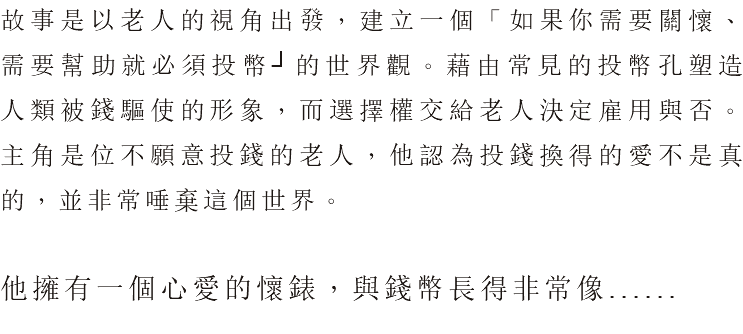
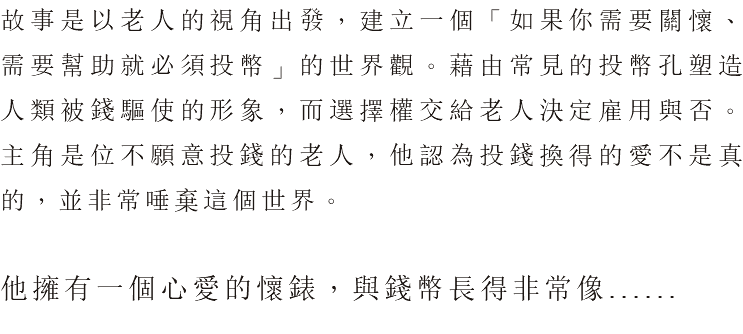
Final

Changed region(s): [[0.1238, 0.1497, 0.8977, 0.2395]]

diff --git a/css/animation.css b/css/animation.css
@@ -1,1 +1,1 @@
-.version.animation{color:#000010;background-color:#68A0E8;}#muse_css_mq{background-color:#FFFFFF;}#page{z-index:1;width:1280px;min-height:500px;background-image:none;border-width:0px;border-color:#000000;background-color:transparent;margin-left:auto;margin-right:auto;}#page_position_content{padding-bottom:62px;width:0.01px;}#pu1153{z-index:37;width:0.01px;padding-bottom:127px;margin-left:-100px;}#u1153{z-index:37;height:127px;box-shadow:0px 38px 25px rgba(89,69,64,0.25);background-color:#6B625E;opacity:0.5;-ms-filter:"progid:DXImageTransform.Microsoft.Alpha(Opacity=50)";filter:alpha(opacity=50);position:fixed;top:0px;}#u1153-bw{z-index:37;}#u1154{z-index:38;width:48px;background-color:transparent;position:fixed;top:40px;left:50%;margin-left:-640px;}#pu228-7{z-index:3;width:0.01px;margin-left:-100px;margin-top:172px;}#u228-7{z-index:3;display:block;vertical-align:top;position:relative;margin-right:-10000px;margin-top:1316px;left:642px;}#slideshowu639{z-index:10;width:0.01px;height:962px;position:relative;margin-right:-10000px;}#u649{position:absolute;width:1480px;height:962px;background-color:transparent;}#u649popup{z-index:11;}#u652{z-index:12;width:1480px;height:962px;border-width:0px;border-color:transparent;background-color:transparent;margin-right:-10000px;position:relative;}#u753{z-index:14;width:1480px;height:962px;border-width:0px;border-color:transparent;background-color:transparent;margin-right:-10000px;position:relative;}#u791{z-index:16;width:1480px;height:962px;border-width:0px;border-color:transparent;background-color:transparent;margin-right:-10000px;position:relative;}#u811{z-index:18;width:1480px;height:962px;border-width:0px;border-color:transparent;background-color:transparent;margin-right:-10000px;position:relative;}#u659-4{position:absolute;width:10px;min-height:20px;border-width:0px;border-color:transparent;background-color:transparent;padding:10px;text-align:center;line-height:20px;font-family:Georgia, Palatino, Palatino Linotype, Times, Times New Roman, serif;top:922px;}#u659-4popup{z-index:20;}#u659{color:#999999;}#u656-4{position:absolute;width:10px;min-height:20px;border-width:0px;border-color:transparent;background-color:transparent;padding:10px;text-align:center;line-height:20px;color:#999999;font-family:Georgia, Palatino, Palatino Linotype, Times, Times New Roman, serif;top:922px;left:1450px;}#u656-4popup{z-index:24;}.SSFirstButton,.SSPreviousButton,.SSNextButton,.SSLastButton,.SSSlideLink,.SSCloseButton{cursor:pointer;}.SSSlideLoading{background:url("../images/loading.gif?crc=3815509949") no-repeat center center;}#u831-9{z-index:28;display:block;vertical-align:top;margin-left:542px;margin-top:128px;position:relative;}#u151{z-index:2;width:173px;height:149px;opacity:1;-ms-filter:"progid:DXImageTransform.Microsoft.Alpha(Opacity=100)";filter:alpha(opacity=100);margin-left:1178px;margin-top:128px;position:relative;background:transparent url("../images/7002.png?crc=326660457") no-repeat center center;background-size:cover;}.hidpi #u151{background-image:url("../images/7002_2x.png?crc=315358198");}.css_verticalspacer .verticalspacer{height:calc(100vh - 2875px);}.html{background-color:#332F2D;background:-webkit-gradient(linear, center top, center bottom, from(#332F2D),color-stop(100%, #968B81));background:-webkit-linear-gradient(top,#332F2D ,#968B81 100%);background:linear-gradient(to bottom,#332F2D ,#968B81 100%);filter:progid:DXImageTransform.Microsoft.gradient(startColorstr=#FF332F2D, endColorstr=#FF968B81, GradientType=0);-ms-filter:"progid:DXImageTransform.Microsoft.gradient(startColorstr='#FF332F2D', endColorstr='#FF968B81', GradientType=0)";}body{position:relative;min-width:1280px;}
+.version.animation{color:#00001F;background-color:#F38969;}#muse_css_mq{background-color:#FFFFFF;}#page{z-index:1;width:1280px;min-height:499.6399999999999px;background-image:none;border-width:0px;border-color:#000000;background-color:transparent;padding-bottom:0px;margin-left:auto;margin-right:auto;}#page_position_content{padding-bottom:62px;width:0.01px;}#pu1153{z-index:37;width:0.01px;padding-bottom:127px;margin-left:-100px;}#u1153{z-index:37;height:127px;box-shadow:0px 38px 25px rgba(89,69,64,0.25);background-color:#6B625E;opacity:0.5;-ms-filter:"progid:DXImageTransform.Microsoft.Alpha(Opacity=50)";filter:alpha(opacity=50);position:fixed;top:0px;}#u1153-bw{z-index:37;}#u1154{z-index:38;width:48px;background-color:transparent;position:fixed;top:40px;left:50%;margin-left:-640px;}#pu228-7{z-index:3;width:0.01px;margin-left:-100px;margin-top:173px;}#u228-7{z-index:3;display:block;vertical-align:top;position:relative;margin-right:-10000px;margin-top:1277px;left:637px;}#slideshowu639{z-index:10;width:0.01px;height:962px;position:relative;margin-right:-10000px;}#u649{position:absolute;width:1480px;height:962px;background-color:transparent;}#u649popup{z-index:11;}#u652{z-index:12;width:1480px;height:962px;border-width:0px;border-color:transparent;background-color:transparent;margin-right:-10000px;position:relative;}#u753{z-index:14;width:1480px;height:962px;border-width:0px;border-color:transparent;background-color:transparent;margin-right:-10000px;position:relative;}#u791{z-index:16;width:1480px;height:962px;border-width:0px;border-color:transparent;background-color:transparent;margin-right:-10000px;position:relative;}#u811{z-index:18;width:1480px;height:962px;border-width:0px;border-color:transparent;background-color:transparent;margin-right:-10000px;position:relative;}#u659-4{position:absolute;width:10px;min-height:20px;border-width:0px;border-color:transparent;background-color:transparent;padding:10px;text-align:center;line-height:20px;font-family:Georgia, Palatino, Palatino Linotype, Times, Times New Roman, serif;top:920px;}#u659-4popup{z-index:20;}#u659{color:#999999;}#u656-4{position:absolute;width:10px;min-height:20px;border-width:0px;border-color:transparent;background-color:transparent;padding:10px;color:#999999;text-align:center;line-height:20px;font-family:Georgia, Palatino, Palatino Linotype, Times, Times New Roman, serif;top:920px;left:1450px;}#u656-4popup{z-index:24;}.SSFirstButton,.SSPreviousButton,.SSNextButton,.SSLastButton,.SSSlideLink,.SSCloseButton{cursor:pointer;}.SSSlideLoading{background:url("../images/loading.gif?crc=3815509949") no-repeat center center;}#u831-9{z-index:28;display:block;vertical-align:top;margin-left:537px;margin-top:128px;position:relative;}#u151{z-index:2;width:126px;height:108px;opacity:1;-ms-filter:"progid:DXImageTransform.Microsoft.Alpha(Opacity=100)";filter:alpha(opacity=100);margin-left:1189px;margin-top:166px;position:relative;background:transparent url("../images/7002-u151-fr.png?crc=3774197193") no-repeat center center;background-size:cover;}.hidpi #u151{background-image:url("../images/7002-u151-fr_2x.png?crc=3932895861");}.css_verticalspacer .verticalspacer{height:calc(100vh - 2835px);}.html{background-color:#332F2D;background:-webkit-gradient(linear, center top, center bottom, from(#332F2D),color-stop(100%, #968B81));background:-webkit-linear-gradient(top,#332F2D ,#968B81 100%);background:linear-gradient(to bottom,#332F2D ,#968B81 100%);filter:progid:DXImageTransform.Microsoft.gradient(startColorstr=#FF332F2D, endColorstr=#FF968B81, GradientType=0);-ms-filter:"progid:DXImageTransform.Microsoft.gradient(startColorstr='#FF332F2D', endColorstr='#FF968B81', GradientType=0)";}body{position:relative;min-width:1280px;}

diff --git a/css/film-play.css b/css/film-play.css
@@ -1,1 +1,1 @@
-.version.film_play{color:#0000F5;background-color:#5DE3B3;}#muse_css_mq{background-color:#FFFFFF;}#page{z-index:1;width:1280px;min-height:500px;background-image:none;border-width:0px;border-color:#000000;background-color:transparent;margin-left:auto;margin-right:auto;}#page_position_content{padding-bottom:62px;width:0.01px;}#pu1167{z-index:42;width:0.01px;padding-bottom:127px;margin-left:-100px;}#u1167{z-index:42;height:127px;box-shadow:0px 38px 25px rgba(89,69,64,0.25);background-color:#6B625E;opacity:0.5;-ms-filter:"progid:DXImageTransform.Microsoft.Alpha(Opacity=50)";filter:alpha(opacity=50);position:fixed;top:0px;}#u1167-bw{z-index:42;}#u1906{z-index:43;width:48px;background-color:transparent;position:fixed;top:40px;left:50%;margin-left:-640px;}#pfilm{z-index:41;width:0.01px;margin-top:123px;}#film{position:relative;margin-right:-10000px;width:22px;}#u1930{z-index:40;width:1178px;height:743px;border-width:0px;border-color:transparent;background-color:transparent;position:relative;margin-right:-10000px;left:48px;}#u839{z-index:2;width:761px;background-color:transparent;margin-left:465px;margin-top:452px;position:relative;}#u891-12{z-index:8;display:block;vertical-align:top;margin-left:459px;margin-top:35px;position:relative;}#u843{z-index:6;width:766px;background-color:transparent;margin-left:460px;margin-top:35px;position:relative;}#u894-10{z-index:30;display:block;vertical-align:top;margin-left:459px;margin-top:35px;position:relative;}#u841{z-index:4;width:766px;background-color:transparent;margin-left:460px;margin-top:35px;position:relative;}#u897-10{z-index:20;display:block;vertical-align:top;margin-left:459px;margin-top:35px;position:relative;}.css_verticalspacer .verticalspacer{height:calc(100vh - 3694px);}.html{background-color:#332C2C;background:-webkit-gradient(linear, center top, center bottom, from(#332C2C),color-stop(100%, #998675));background:-webkit-linear-gradient(top,#332C2C ,#998675 100%);background:linear-gradient(to bottom,#332C2C ,#998675 100%);filter:progid:DXImageTransform.Microsoft.gradient(startColorstr=#FF332C2C, endColorstr=#FF998675, GradientType=0);-ms-filter:"progid:DXImageTransform.Microsoft.gradient(startColorstr='#FF332C2C', endColorstr='#FF998675', GradientType=0)";}body{position:relative;min-width:1280px;}
+.version.film_play{color:#0000E5;background-color:#1A55B3;}#muse_css_mq{background-color:#FFFFFF;}#page{z-index:1;width:1280px;min-height:500px;background-image:none;border-width:0px;border-color:#000000;background-color:transparent;margin-left:auto;margin-right:auto;}#page_position_content{padding-bottom:62px;width:0.01px;}#pu1167{z-index:42;width:0.01px;padding-bottom:127px;margin-left:-100px;}#u1167{z-index:42;height:127px;box-shadow:0px 38px 25px rgba(89,69,64,0.25);background-color:#6B625E;opacity:0.5;-ms-filter:"progid:DXImageTransform.Microsoft.Alpha(Opacity=50)";filter:alpha(opacity=50);position:fixed;top:0px;}#u1167-bw{z-index:42;}#u1906{z-index:43;width:48px;background-color:transparent;position:fixed;top:40px;left:50%;margin-left:-640px;}#pfilm{z-index:41;width:0.01px;margin-top:123px;}#film{position:relative;margin-right:-10000px;width:22px;}#u1930{z-index:40;width:1178px;height:743px;border-width:0px;border-color:transparent;background-color:transparent;position:relative;margin-right:-10000px;left:48px;}#u839{z-index:2;width:761px;background-color:transparent;margin-left:465px;margin-top:452px;position:relative;}#u891-12{z-index:8;display:block;vertical-align:top;margin-left:464px;margin-top:32px;position:relative;}#u843{z-index:6;width:761px;background-color:transparent;margin-left:465px;margin-top:38px;position:relative;}#u894-10{z-index:30;display:block;vertical-align:top;margin-left:464px;margin-top:38px;position:relative;}#u841{z-index:4;width:761px;background-color:transparent;margin-left:465px;margin-top:37px;position:relative;}#u897-10{z-index:20;display:block;vertical-align:top;margin-left:464px;margin-top:41px;position:relative;}.css_verticalspacer .verticalspacer{height:calc(100vh - 3661px);}.html{background-color:#332C2C;background:-webkit-gradient(linear, center top, center bottom, from(#332C2C),color-stop(100%, #998675));background:-webkit-linear-gradient(top,#332C2C ,#998675 100%);background:linear-gradient(to bottom,#332C2C ,#998675 100%);filter:progid:DXImageTransform.Microsoft.gradient(startColorstr=#FF332C2C, endColorstr=#FF998675, GradientType=0);-ms-filter:"progid:DXImageTransform.Microsoft.gradient(startColorstr='#FF332C2C', endColorstr='#FF998675', GradientType=0)";}body{position:relative;min-width:1280px;}

diff --git a/css/design.css b/css/design.css
@@ -1,1 +1,1 @@
-.version.design{color:#000002;background-color:#04A456;}#muse_css_mq{background-color:#FFFFFF;}#page{z-index:1;width:1280px;min-height:500px;background-image:none;border-width:0px;border-color:#000000;background-color:transparent;margin-left:auto;margin-right:auto;}#page_position_content{padding-bottom:62px;width:0.01px;}#pu1150{z-index:55;width:0.01px;padding-bottom:127px;margin-left:-100px;}#u1150{z-index:55;height:127px;box-shadow:0px 38px 25px rgba(89,69,64,0.25);background-color:#EFECE6;opacity:0.5;-ms-filter:"progid:DXImageTransform.Microsoft.Alpha(Opacity=50)";filter:alpha(opacity=50);position:fixed;top:0px;}#u1150-bw{z-index:55;}#u1116{z-index:56;width:48px;background-color:transparent;position:fixed;top:41px;left:100px;}#pu234{z-index:35;width:0.01px;margin-left:311px;margin-top:118px;}#u234{z-index:35;width:659px;box-shadow:6px 6px 8px rgba(112,53,66,0.5);background-color:transparent;position:relative;margin-right:-10000px;}#poster{position:relative;margin-right:-10000px;width:22px;}#pu231-33{z-index:2;width:0.01px;margin-left:332px;margin-top:96px;}#u231-33{z-index:2;display:block;vertical-align:top;position:relative;margin-right:-10000px;}#u264-4{z-index:37;display:block;vertical-align:top;position:relative;margin-right:-10000px;margin-top:340px;left:-1px;}#u273-14{z-index:41;display:block;vertical-align:top;margin-left:331px;margin-top:22px;position:relative;}.css_verticalspacer .verticalspacer{height:calc(100vh - 2844px);}.html{background-color:#CEB7C0;background:-webkit-gradient(linear, center top, center bottom, from(#CEB7C0),color-stop(100%, #825165));background:-webkit-linear-gradient(top,#CEB7C0 ,#825165 100%);background:linear-gradient(to bottom,#CEB7C0 ,#825165 100%);filter:progid:DXImageTransform.Microsoft.gradient(startColorstr=#FFCEB7C0, endColorstr=#FF825165, GradientType=0);-ms-filter:"progid:DXImageTransform.Microsoft.gradient(startColorstr='#FFCEB7C0', endColorstr='#FF825165', GradientType=0)";}body{position:relative;min-width:1280px;}
+.version.design{color:#00000D;background-color:#959BA7;}#muse_css_mq{background-color:#FFFFFF;}#page{z-index:1;width:1280px;min-height:500px;background-image:none;border-width:0px;border-color:#000000;background-color:transparent;margin-left:auto;margin-right:auto;}#page_position_content{padding-bottom:62px;width:0.01px;}#pu1150{z-index:55;width:0.01px;padding-bottom:127px;margin-left:-100px;}#u1150{z-index:55;height:127px;box-shadow:0px 38px 25px rgba(89,69,64,0.25);background-color:#EFECE6;opacity:0.5;-ms-filter:"progid:DXImageTransform.Microsoft.Alpha(Opacity=50)";filter:alpha(opacity=50);position:fixed;top:0px;}#u1150-bw{z-index:55;}#u1116{z-index:56;width:48px;background-color:transparent;position:fixed;top:41px;left:100px;}#pu234{z-index:35;width:0.01px;margin-left:310px;margin-top:123px;}#u234{z-index:35;width:659px;box-shadow:6px 6px 8px rgba(112,53,66,0.5);background-color:transparent;position:relative;margin-right:-10000px;}#poster{position:relative;margin-right:-10000px;width:22px;}#pu231-33{z-index:2;width:0.01px;margin-left:332px;margin-top:91px;}#u231-33{z-index:2;display:block;vertical-align:top;position:relative;margin-right:-10000px;}#u264-4{z-index:37;display:block;vertical-align:top;position:relative;margin-right:-10000px;margin-top:340px;left:-1px;}#u273-14{z-index:41;display:block;vertical-align:top;margin-left:331px;margin-top:22px;position:relative;}.css_verticalspacer .verticalspacer{height:calc(100vh - 2844px);}.html{background-color:#CEB7C0;background:-webkit-gradient(linear, center top, center bottom, from(#CEB7C0),color-stop(100%, #825165));background:-webkit-linear-gradient(top,#CEB7C0 ,#825165 100%);background:linear-gradient(to bottom,#CEB7C0 ,#825165 100%);filter:progid:DXImageTransform.Microsoft.gradient(startColorstr=#FFCEB7C0, endColorstr=#FF825165, GradientType=0);-ms-filter:"progid:DXImageTransform.Microsoft.gradient(startColorstr='#FFCEB7C0', endColorstr='#FF825165', GradientType=0)";}body{position:relative;min-width:1280px;}

diff --git a/film-play.html b/film-play.html
@@ -16,7 +16,7 @@ if(typeof Muse == "undefined") window.Muse = {}; window.Muse.assets = {"required
   <title>film play</title>
   <!-- CSS -->
   <link rel="stylesheet" type="text/css" href="css/site_global.css?crc=4194024197"/>
-  <link rel="stylesheet" type="text/css" href="css/film-play.css?crc=4116571059" id="pagesheet"/>
+  <link rel="stylesheet" type="text/css" href="css/film-play.css?crc=3843708339" id="pagesheet"/>
     <!--HTML Widget code-->
   <style type="text/css">#u1930.size_fluid_width_height iframe { position:absolute; left:0; top:0; }</style>
  </head>
@@ -40,11 +40,11 @@ if(typeof Muse == "undefined") window.Muse = {}; window.Muse.assets = {"required
     </div>
     <a class="nonblock nontext anim_swing clip_frame colelem" id="u839" href="film-play.html#film"><!-- image --><img class="block" id="u839_img" src="images/watchandcoins_ppt.jpg?crc=10451666" data-hidpi-src="images/watchandcoins_ppt_2x.jpg?crc=189692724" alt="" width="761" height="428"/></a>
     <img class="colelem" id="u891-12" alt="懷錶的照片表示他的理想，懷錶的時間表示他的歲月與生命 The photo of the pocket watch shows his ideal world. The time of the pocket watch indicates his years and life. " width="724" height="203" src="images/u891-12.png?crc=438463555" data-hidpi-src="images/u891-12_2x.png?crc=4098366857"/><!-- rasterized frame -->
-    <a class="nonblock nontext anim_swing clip_frame colelem" id="u843" href="film-play.html#film"><!-- image --><img class="block" id="u843_img" src="images/oldmanandcoins_ppt.jpg?crc=57701521" data-hidpi-src="images/oldmanandcoins_ppt_2x.jpg?crc=382699291" alt="" width="766" height="431"/></a>
-    <img class="colelem" id="u894-10" alt="因為掉錢幣的聲音引起家人上樓，讓他對世界感到更加無助、失望 The sound of dropping coins caused his family to go upstairs, making him feel more helpless and disappointed in the world. " width="724" height="241" src="images/u894-10.png?crc=4104959026" data-hidpi-src="images/u894-10_2x.png?crc=478354450"/><!-- rasterized frame -->
-    <a class="nonblock nontext anim_swing clip_frame colelem" id="u841" href="film-play.html#film"><!-- image --><img class="block" id="u841_img" src="images/01.jpg?crc=4249513289" alt="" width="766" height="431"/></a>
+    <a class="nonblock nontext anim_swing clip_frame colelem" id="u843" href="film-play.html#film"><!-- image --><img class="block" id="u843_img" src="images/oldmanandcoins_ppt.png?crc=361349727" data-hidpi-src="images/oldmanandcoins_ppt_2x.png?crc=367222850" alt="" width="761" height="428"/></a>
+    <img class="colelem" id="u894-10" alt="因為掉錢幣的聲音引起家人上樓，讓他對世界感到更加無助、失望 The sound of dropping coins caused his family to go upstairs, making him feel more helpless and disappointed in the world. " width="762" height="203" src="images/u894-10.png?crc=4126786757" data-hidpi-src="images/u894-10_2x.png?crc=4037367215"/><!-- rasterized frame -->
+    <a class="nonblock nontext anim_swing clip_frame colelem" id="u841" href="film-play.html#film"><!-- image --><img class="block" id="u841_img" src="images/01.jpg?crc=4219971970" alt="" width="761" height="428"/></a>
     <img class="colelem" id="u897-10" alt="動畫的開頭撿到錢幣、結尾丟出錢幣，告知這個故事將會循環下去 The coin was picked up at the beginning of the animation and the coin was thrown at the end, telling the story that the cycle will continue. " width="724" height="279" src="images/u897-10.png?crc=28285961" data-hidpi-src="images/u897-10_2x.png?crc=274093461"/><!-- rasterized frame -->
-    <div class="verticalspacer" data-offset-top="3633" data-content-above-spacer="3632" data-content-below-spacer="62"></div>
+    <div class="verticalspacer" data-offset-top="3600" data-content-above-spacer="3599" data-content-below-spacer="62"></div>
    </div>
   </div>
   <!-- Other scripts -->

diff --git a/animation.html b/animation.html
@@ -16,7 +16,7 @@ if(typeof Muse == "undefined") window.Muse = {}; window.Muse.assets = {"required
   <title>Animation</title>
   <!-- CSS -->
   <link rel="stylesheet" type="text/css" href="css/site_global.css?crc=4194024197"/>
-  <link rel="stylesheet" type="text/css" href="css/animation.css?crc=275292392" id="pagesheet"/>
+  <link rel="stylesheet" type="text/css" href="css/animation.css?crc=536054121" id="pagesheet"/>
    </head>
  <body>
 
@@ -29,7 +29,7 @@ if(typeof Muse == "undefined") window.Muse = {}; window.Muse.assets = {"required
      <a class="nonblock nontext clip_frame" id="u1154" href="index.html"><!-- image --><img class="block" id="u1154_img" src="images/logo48x45.png?crc=3803427296" data-hidpi-src="images/logo48x45_2x.png?crc=226796128" alt="" width="48" height="44"/></a>
     </div>
     <div class="clearfix colelem" id="pu228-7"><!-- group -->
-     <img class="grpelem" id="u228-7" alt="故事是以老人的視角出發，建立一個「如果你需要關懷、需要幫助就必須投幣┘的世界觀。藉由常見的投幣孔塑造人類被錢驅使的形象，而選擇權交給老人決定雇用與否。主角是位不願意投錢的老人，他認為投錢換得的愛不是真的，並非常唾棄這個世界。 他擁有一個心愛的懷錶，與錢幣長得非常像......" width="743" height="334" src="images/u228-7.png?crc=92514944" data-hidpi-src="images/u228-7_2x.png?crc=3976191272"/><!-- rasterized frame -->
+     <img class="grpelem" id="u228-7" alt="故事是以老人的視角出發，建立一個「如果你需要關懷、需要幫助就必須投幣」的世界觀。藉由常見的投幣孔塑造人類被錢驅使的形象，而選擇權交給老人決定雇用與否。主角是位不願意投錢的老人，他認為投錢換得的愛不是真的，並非常唾棄這個世界。 他擁有一個心愛的懷錶，與錢幣長得非常像......" width="743" height="334" src="images/u228-7.png?crc=4267451898" data-hidpi-src="images/u228-7_2x.png?crc=450382774"/><!-- rasterized frame -->
      <div class="SlideShowWidget clearfix HeroFillFrame grpelem" id="slideshowu639"><!-- none box -->
       <div class="popup_anchor" id="u649popup">
        <div class="SlideShowContentPanel clearfix" id="u649"><!-- stack box -->
@@ -61,7 +61,7 @@ if(typeof Muse == "undefined") window.Muse = {}; window.Muse.assets = {"required
     </div>
     <img class="colelem" id="u831-9" alt="The story is based on the perspective of the elderly, establishing a worldview of &quot;If you need care and help, you must invest in coins”. The common coin slot creates the image of human beings driven by money, and the right to choose is left to the elders to decide to hire or not. The protagonist is an old man who is unwilling to invest money. He believes that the love gained by investing money is not true, and he spurns the world very much. He has a beloved pocket watch that looks very much like a coin. " width="744" height="460" src="images/u831-9.png?crc=491910569" data-hidpi-src="images/u831-9_2x.png?crc=420400778"/><!-- rasterized frame -->
     <a class="nonblock nontext museBGSize colelem" id="u151" href="film-play.html"><!-- simple frame --></a>
-    <div class="verticalspacer" data-offset-top="2814" data-content-above-spacer="2813" data-content-below-spacer="62"></div>
+    <div class="verticalspacer" data-offset-top="2773" data-content-above-spacer="2773" data-content-below-spacer="62"></div>
    </div>
   </div>
   <!-- Other scripts -->

diff --git a/design.html b/design.html
@@ -16,7 +16,7 @@ if(typeof Muse == "undefined") window.Muse = {}; window.Muse.assets = {"required
   <title>Design</title>
   <!-- CSS -->
   <link rel="stylesheet" type="text/css" href="css/site_global.css?crc=4194024197"/>
-  <link rel="stylesheet" type="text/css" href="css/design.css?crc=33858646" id="pagesheet"/>
+  <link rel="stylesheet" type="text/css" href="css/design.css?crc=227908519" id="pagesheet"/>
    </head>
  <body>
 
